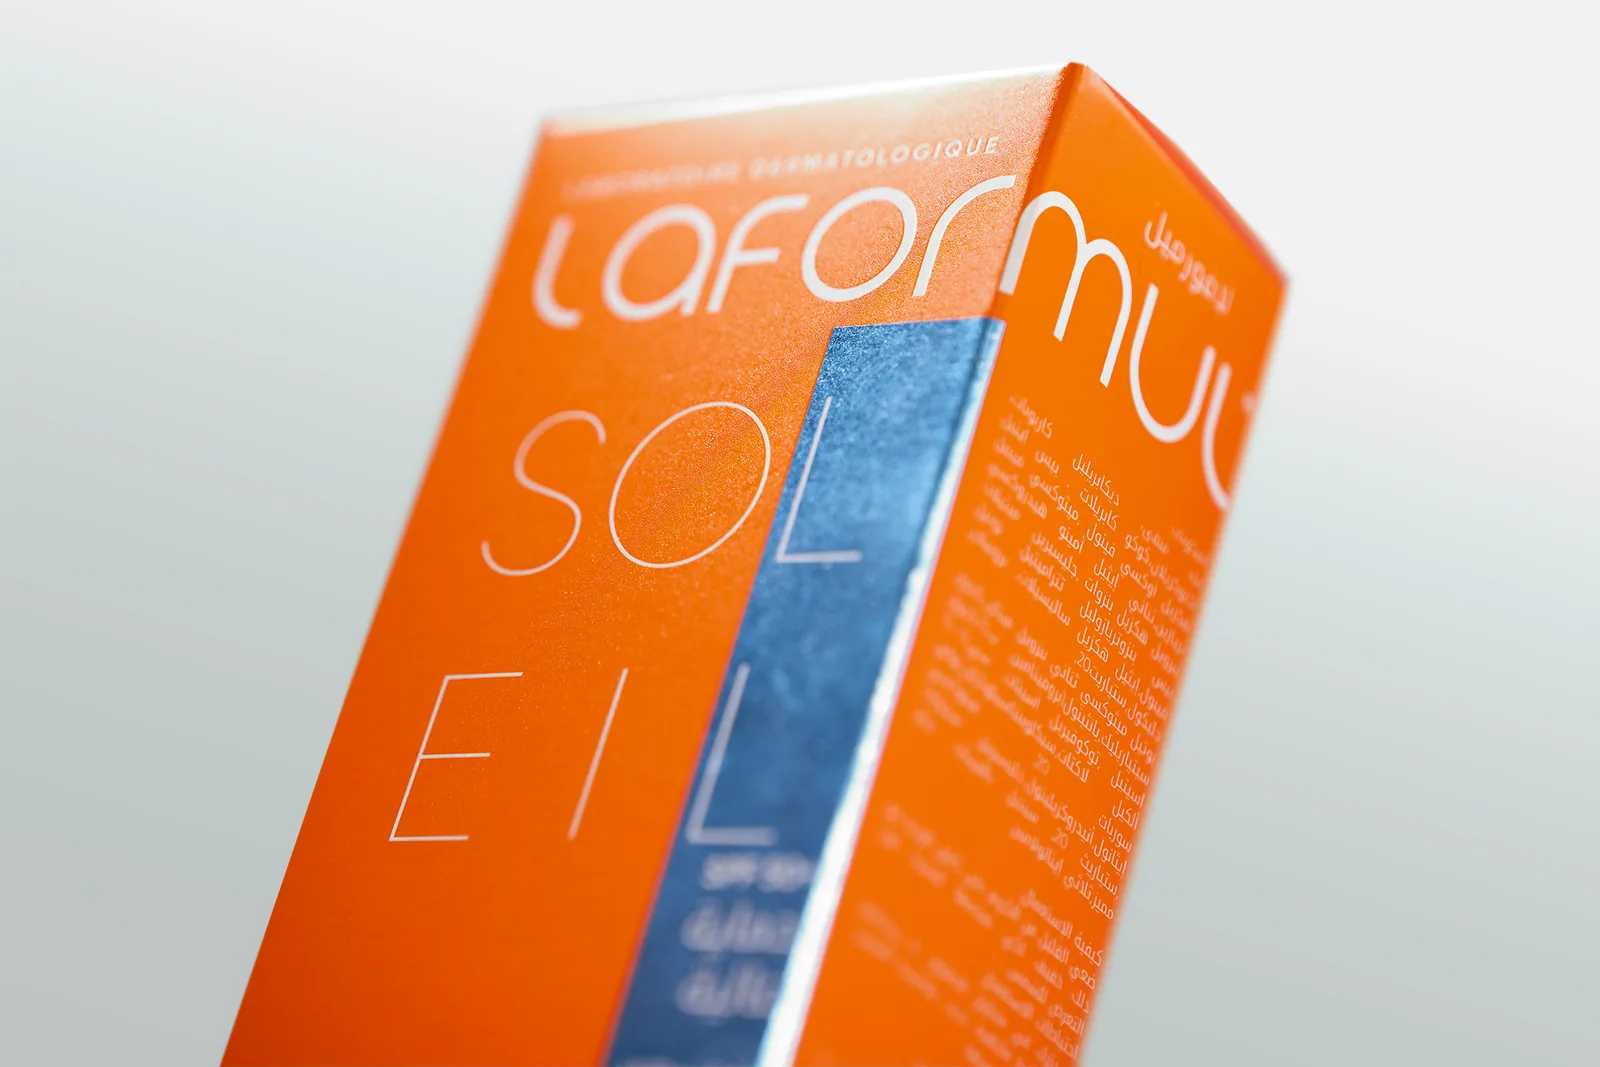
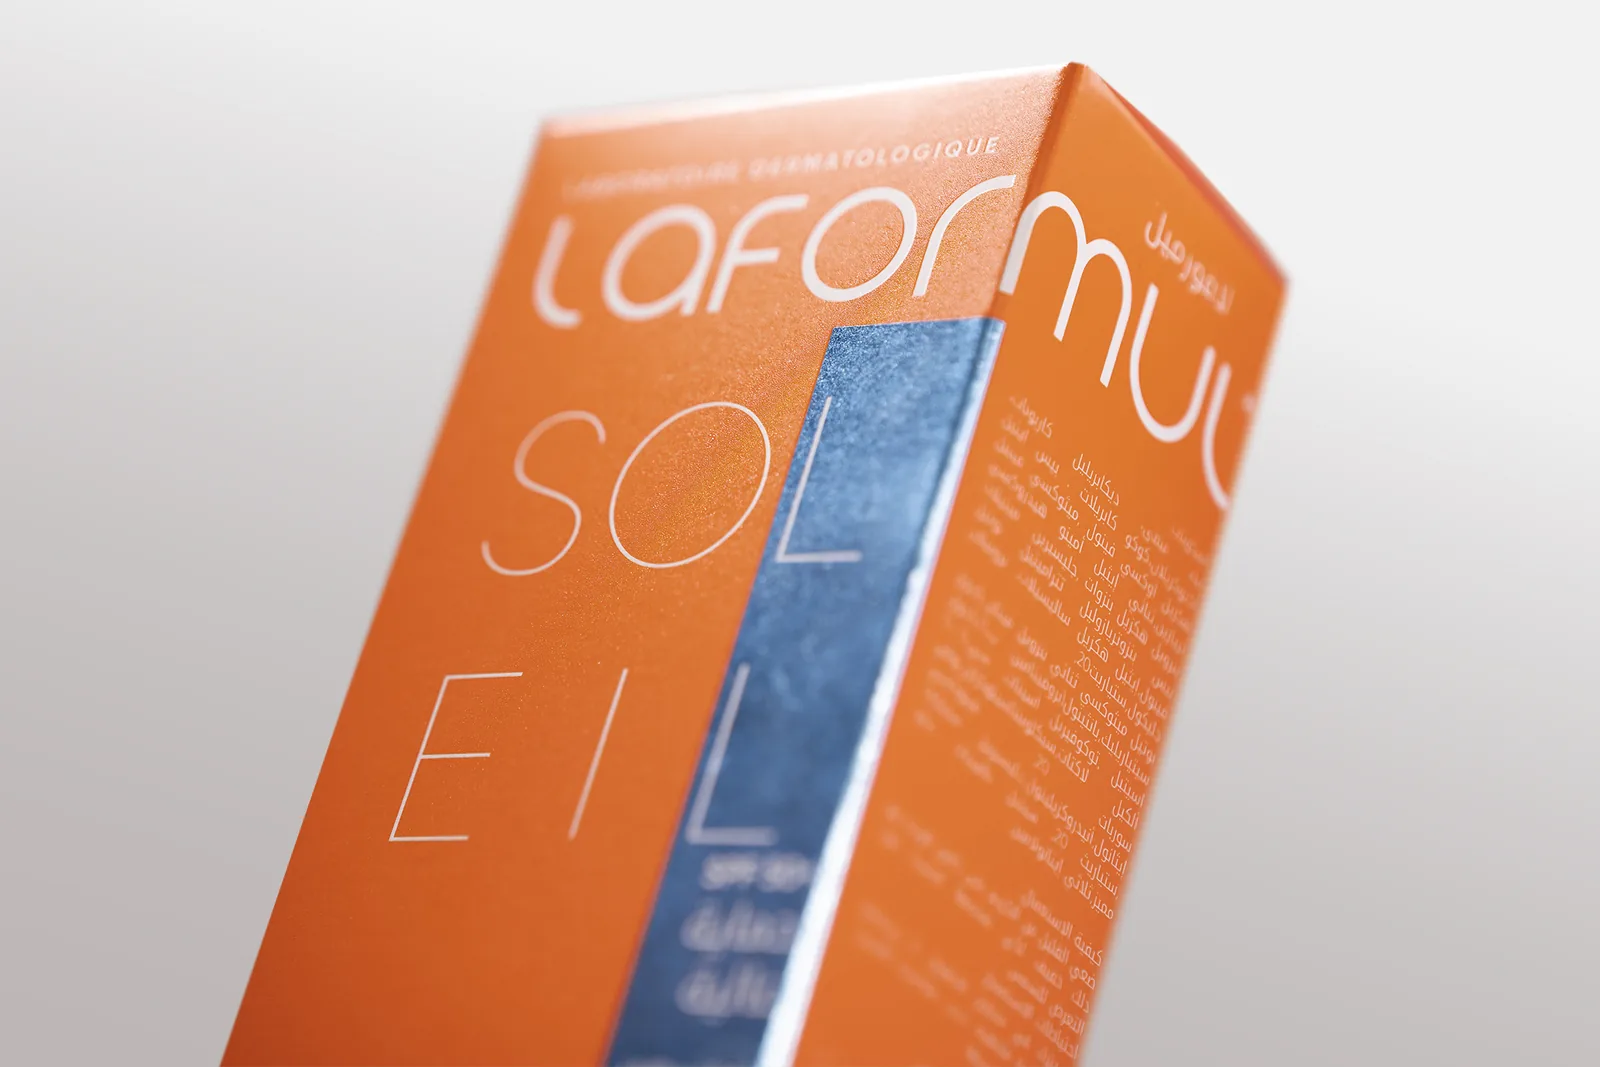
Replace the Soleil print photo; fill Arabic gaps found in review
- Laformul case page: new Soleil carton close-up, compressed, uncropped
- Arabic Laformul page: the second Challenge paragraph was still English
- Arabic og:title on the archive, og:description on Natural Solution and
  the shelf strip's accessible name were still English
- Homepage Soleil caption now says teinté, as the carton does

Claude-Session: https://claude.ai/code/session_01YFVgKLYjoLL86S4jtZWEa6

Changed region(s): [[0.125, 0.1237, 0.5938, 1.0], [0.5, 0.0619, 0.8125, 1.0]]

diff --git a/ar/index.html b/ar/index.html
@@ -768,7 +768,7 @@
               <div class="reel-sheet">
                 <img src="../assets/posters/laformul-soleil.webp" alt="Laformul Soleil — fluide solaire visage teinté SPF 50+" width="944" height="1335" decoding="async" loading="lazy" data-ed="index.i49">
               </div>
-              <div class="reel-cap"><b data-ed="index.t77">Laformul Soleil</b><span data-ed="index.t78">فلويد شمسيّ للوجه <span dir="ltr">SPF 50+</span></span></div>
+              <div class="reel-cap"><b data-ed="index.t77">Laformul Soleil</b><span data-ed="index.t110">فلويد شمسيّ ملوّن للوجه <span dir="ltr">SPF 50+</span></span></div>
             </li>
             <li class="reel-card" style="--i:2">
               <div class="reel-sheet">
@@ -1060,7 +1060,7 @@
      drifting on two rows running opposite ways. Marked aria-hidden because
      it is the same work already named in the reels and the archive — a
      screen reader gains nothing from fifteen more product names here. -->
-<section class="shelf" aria-label="Work on shelves">
+<section class="shelf" aria-label="أعمال على الرفوف">
   <div class="shelf-head">
     <p class="eyebrow" data-ed="index.t93">على الرفوف</p>
     <p class="shelf-line gt gt-zone" data-ed="index.t94">مئة منتج وصلت إلى رفوف الصيدليات. <b>هذه ثلاثون منها.</b></p>

diff --git a/ar/work/natural-solution.html b/ar/work/natural-solution.html
@@ -6,7 +6,7 @@
 <title>Natural Solution + Natural Skin — Djarri Design Studio</title>
 <meta name="description" content="شراكة شبه صيدلانية امتدّت ثلاث سنوات وتجاوزت ثلاثين منتجًا دون إعادة رسم النظام، والعلامة الفرعية للعناية بالبشرة التي نتجت عنها — واحتفظت بالاسم والخط، ولا شيء آخر تقريبًا.">
 <meta property="og:title" content="Natural Solution + Natural Skin">
-<meta property="og:description" content="A three-year partnership that scaled past thirty products, and the skincare sub-brand it produced in a deliberately different voice.">
+<meta property="og:description" content="شراكة امتدّت ثلاث سنوات وتجاوزت ثلاثين منتجًا، والعلامة الفرعية للعناية بالبشرة التي نتجت عنها بصوت مختلف عن قصد.">
 <meta property="og:type" content="article">
 <link rel="icon" href="../../assets/favicon.svg" type="image/svg+xml">
 <link rel="preconnect" href="https://fonts.googleapis.com">

diff --git a/ar/work/laformul.html b/ar/work/laformul.html
@@ -132,7 +132,7 @@
         <section class="narrative">
           <h3 data-ed="laformul.t21">التحدّي</h3>
           <div><p data-ed="laformul.t22">الاسم الجديد لا سجلّ له يتّكئ عليه، فيقع على التصميم وحده أن يحمل حجّة المصداقية كاملة. وكلّ ما هو زخرفيّ يُقرأ تعويضًا.</p>
-<p data-ed="laformul.t23">The second brief was harder than the first. BioFormul had to read as related to Laformul — same house, same standards — without reading as a copy, a dilution or a downgrade.</p></div>
+<p data-ed="laformul.t23">كان الموجز الثاني أصعب من الأول. كان على BioFormul أن تُقرأ قريبةً من Laformul — البيت نفسه والمعايير نفسها — دون أن تُقرأ نسخةً عنها أو تخفيفًا لها أو درجةً أدنى منها.</p></div>
         </section>
         <section class="narrative">
           <h3 data-ed="laformul.t24">ما أُنجز</h3>

diff --git a/ar/archive.html b/ar/archive.html
@@ -5,7 +5,7 @@
 <meta name="viewport" content="width=device-width, initial-scale=1.0">
 <title>مختارات من الأرشيف — Djarri Design Studio</title>
 <meta name="description" content="هويات وحملات وكتالوجات وأنظمة علامات وأعمال فيلمية، إلى جانب دراسات الحالة الثلاث المعروضة.">
-<meta property="og:title" content="Selected Archive">
+<meta property="og:title" content="مختارات من الأرشيف">
 <meta property="og:description" content="هويات وحملات وكتالوجات وأنظمة علامات وأعمال فيلمية، إلى جانب دراسات الحالة الثلاث المعروضة.">
 <meta property="og:type" content="website">
 <link rel="icon" href="../assets/favicon.svg" type="image/svg+xml">

diff --git a/index.html b/index.html
@@ -768,7 +768,7 @@
               <div class="reel-sheet">
                 <img src="assets/posters/laformul-soleil.webp" alt="Laformul Soleil — fluide solaire visage teinté SPF 50+" width="944" height="1335" decoding="async" loading="lazy" data-ed="index.i49">
               </div>
-              <div class="reel-cap"><b data-ed="index.t77">Laformul Soleil</b><span data-ed="index.t78">Fluide solaire visage SPF 50+</span></div>
+              <div class="reel-cap"><b data-ed="index.t77">Laformul Soleil</b><span data-ed="index.t110">Fluide solaire visage teinté SPF 50+</span></div>
             </li>
             <li class="reel-card" style="--i:2">
               <div class="reel-sheet">

diff --git a/tools/build-ar.py b/tools/build-ar.py
@@ -85,6 +85,11 @@ HEAD = {
     "<title>عن الاستوديو — Djarri Design Studio</title>",
   "DJARRI Design Studio — identity, packaging, campaigns and film for pharmaceutical, parapharmaceutical, skincare and consumer-health brands, since 2016.":
     "DJARRI Design Studio — هوية وتغليف وحملات وأفلام لعلامات الأدوية وشبه الصيدلانيات والعناية بالبشرة والصحة الاستهلاكية، منذ 2016.",
+  "<meta property=\"og:title\" content=\"Selected Archive\">":
+    "<meta property=\"og:title\" content=\"مختارات من الأرشيف\">",
+  "A three-year partnership that scaled past thirty products, and the skincare sub-brand it produced in a deliberately different voice.":
+    "شراكة امتدّت ثلاث سنوات وتجاوزت ثلاثين منتجًا، والعلامة الفرعية للعناية بالبشرة التي نتجت عنها بصوت مختلف عن قصد.",
+  "aria-label=\"Work on shelves\"": "aria-label=\"أعمال على الرفوف\"",
   "<meta property=\"og:title\" content=\"About Djarri Design Studio\">":
     "<meta property=\"og:title\" content=\"عن Djarri Design Studio\">",
   "Identity, packaging, campaigns and film for regulated health categories.":
